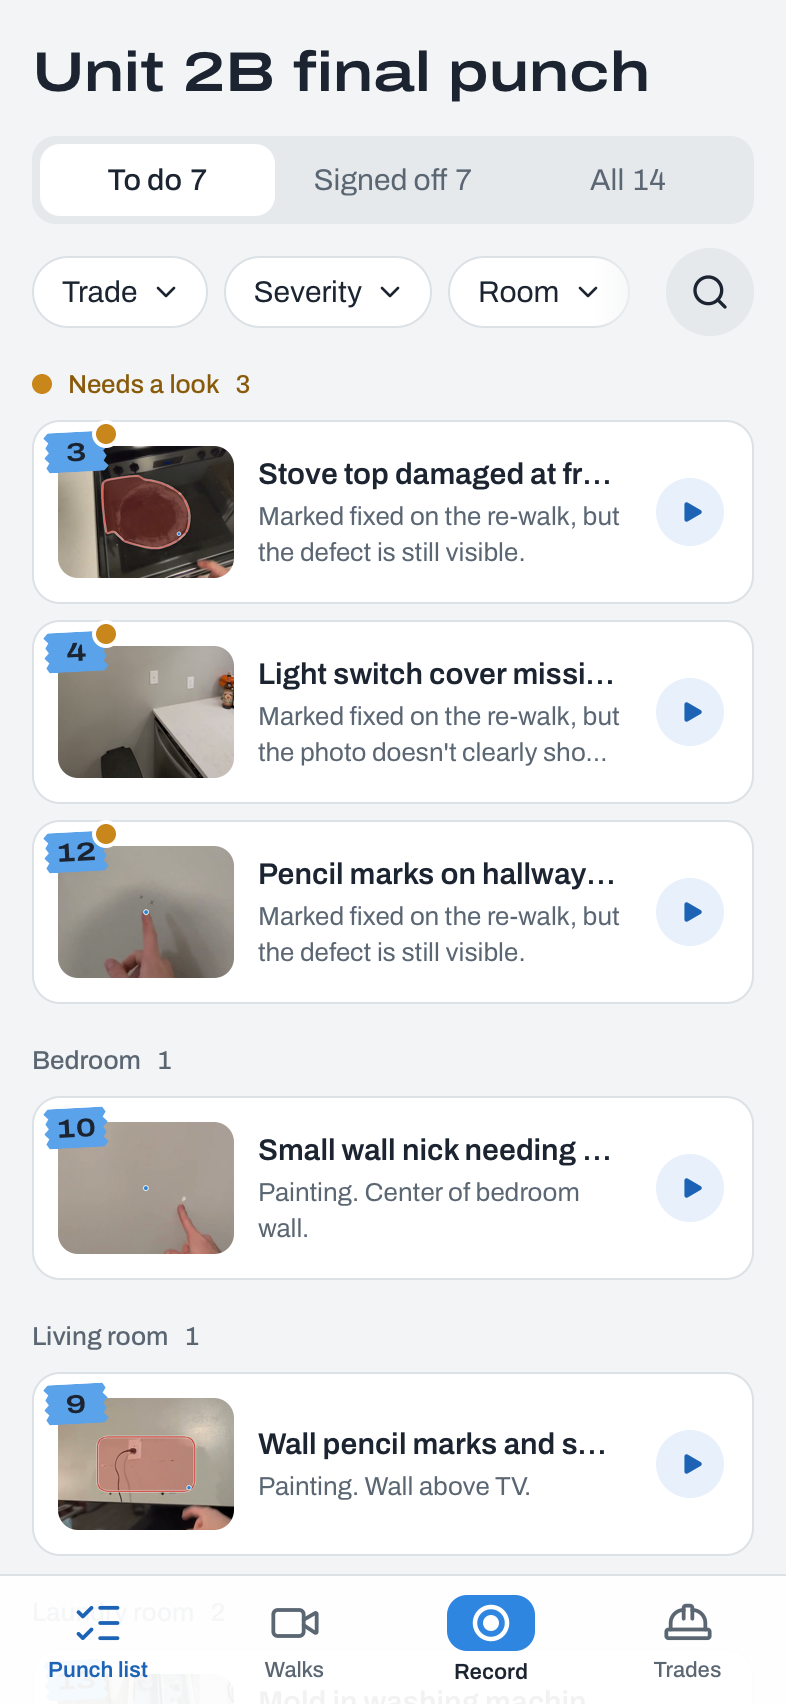
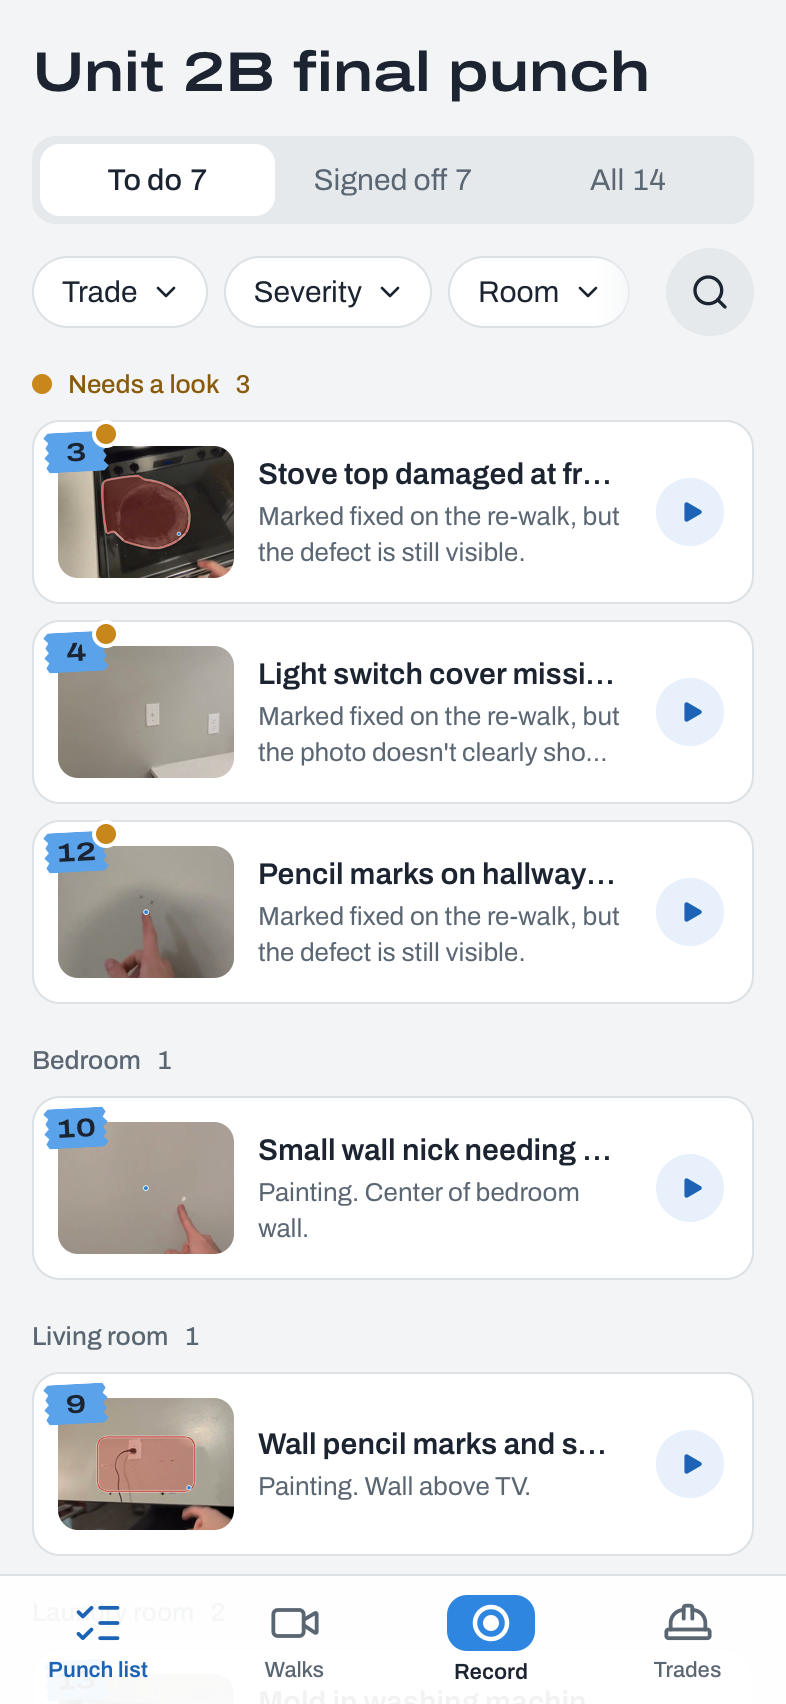
docs: README screenshots re-taken after the Appliances company, re-centred crops, walk-date captions and the new processing line

Changed region(s): [[0.0611, 0.3732, 0.3053, 0.4665]]

diff --git a/docs/screens/README.md b/docs/screens/README.md
@@ -9,13 +9,13 @@ the dot (or nothing, for the voice-only #004).
 
 | File | Screen | Data |
 |---|---|---|
-| `01-punch-list.png` | Punch list, To do 7: Needs a look 3 first (#003 with its outline on the burnt burner ring, #004, #012), then rooms | real |
-| `02-item-detail.png` | Item 11, outlet cover loose and crooked: before/after slider dragged to show the before photo (red outline on the crooked cover plate + blue dot), the action, the inspector's quote, details | real |
+| `01-punch-list.png` | Punch list, To do 7: Needs a look 3 first (#003 with its outline on the burnt burner ring, #004 cropped to the switch plates, #012), then rooms | real |
+| `02-item-detail.png` | Item 11, outlet cover loose and crooked: before/after slider dragged to show the before photo (red outline on the crooked cover plate + blue dot; captions "Nov 3" / "Nov 3, re-walk"), the action, the inspector's quote, details | real |
 | `03-play-this-moment.png` | Play this moment for item 6, mid-play at 0:44: hand outlined, tab 6 at the fingertip, quote as caption | real |
 | `04-walk-detail.png` | First walk, mid-play at 0:44 (item 6): hand outline + tab, the "New" card over the video | real |
 | `05-record-processing-mock.png` | Record: the live processing checklist mid-run | **mock** (no walk is processing in the real data) |
-| `06-rewalk-summary.png` | Re-walk: "7 signed off. 2 still open. 3 need a look." and the #003 stovetop false-fix card (before with the outline on the burnt ring, after, "Approve and send to Appliances"), then #004 | real |
-| `07-how-processed.png` | How the first walk was processed: the three Meta models, calls per step | real (replayed from recorded model answers, so it shows no new cost) |
+| `06-rewalk-summary.png` | Re-walk: "7 signed off. 2 still open. 3 need a look." and the #003 stovetop false-fix card (before with the outline on the burnt ring, after, "Approve and send to Northline Appliance Service"), then #004 | real |
+| `07-how-processed.png` | How the first walk was processed, scrolled to the "Outline the defect" step ("Muse Spark Open located each defect; SAM 3.1 outlined 5 of 12 and Muse Spark Open boxed 2 more…"), the check step and the eval block | real (replayed from recorded model answers, so it shows no new cost) |
 | `08-landing-desktop.png` | Landing page (1440 × 900) with the app in the phone frame and the QR code | real |
 | `09-trade-preview.png` | Brightline Painting: "1 to review, 2 to send.", the review row for #012, Slack ("Posts to your team's Slack channel.") or Copy link, the message exactly as it will be sent, "Post 2 items to Slack" | real |
 
